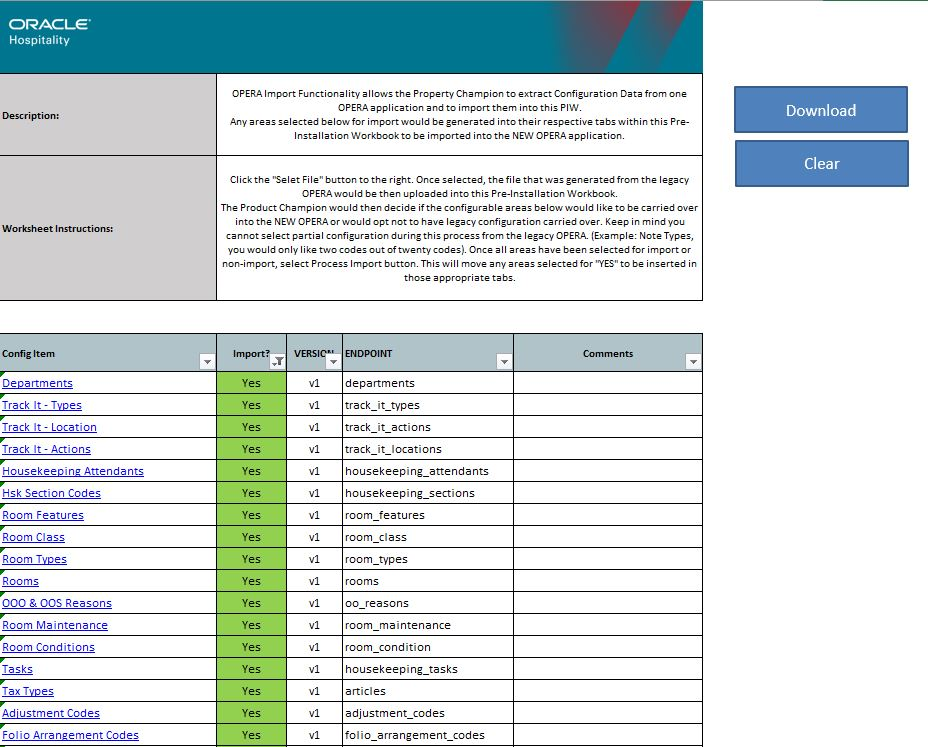
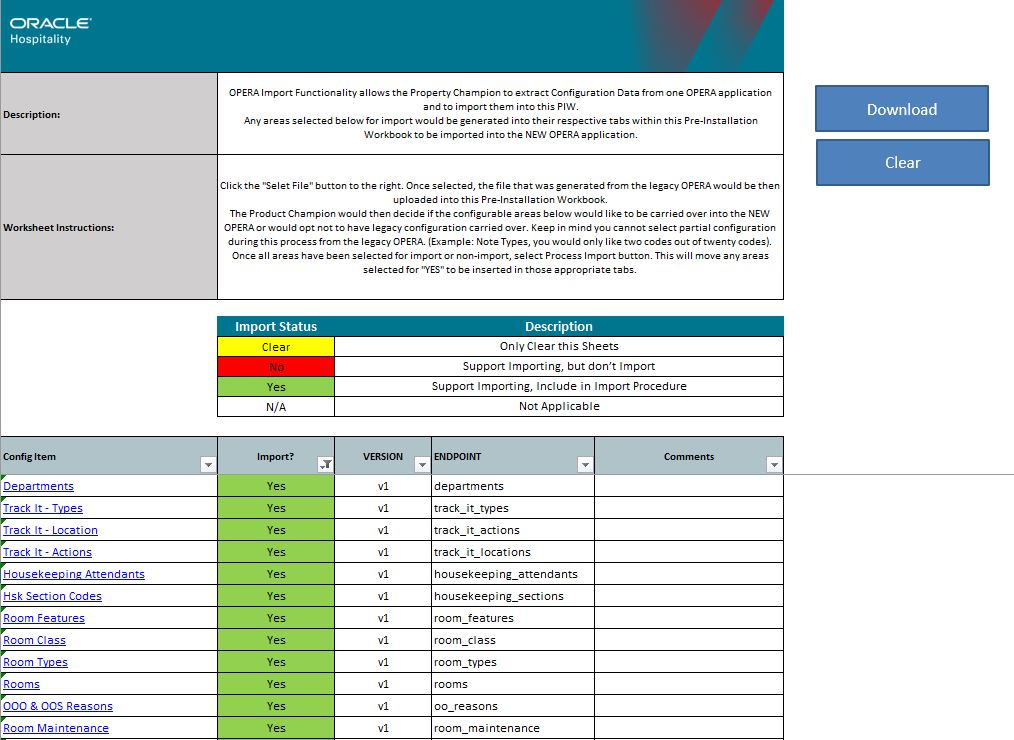
Update README with clarifications on import sheet and clear procedure; add new images for better guidance

diff --git a/docs/README.md b/docs/README.md
@@ -58,12 +58,15 @@ For manual setup, individual steps, or troubleshooting:
 
 6. **Opera Import sheet** — lists every worksheet available in the workbook.
    ![import_sheet](_media/import_sheet.JPG)
-   - Worksheets without a data extraction endpoint show `N/A` in the **Import?** column.
+   - Worksheets without a data extraction endpoint and not applicable shows `N/A` in the **Import?** column.
    - You can choose to include any existing worksheet in clear procedure by selecting **Clear**.
    - For the rest, choose **Yes** or **No** in the **Import?** column dropdown to select which modules/worksheets to import.
-   - For
 
 7. **Clear** — removes property-specific codes from sheets marked **Yes**. Recommended before importing a fresh resort.
+   ![clear_prompt](_media/clear.JPG)
+   - Choose `Yes` to Clear only Sheets selected to Include in Data Import.
+   - Choosing `No` would clear all sheets with `Yes`, `No`, `Clear` in the **Import?** column.
+
 8. **Download Data** — pulls data from each selected endpoint and appends it to the property-specific codes. Progress is reported per sheet in the **Import** worksheet.
 
 Common statuses you may see: `Success`, `Error: No Data Found`, and various database errors.
